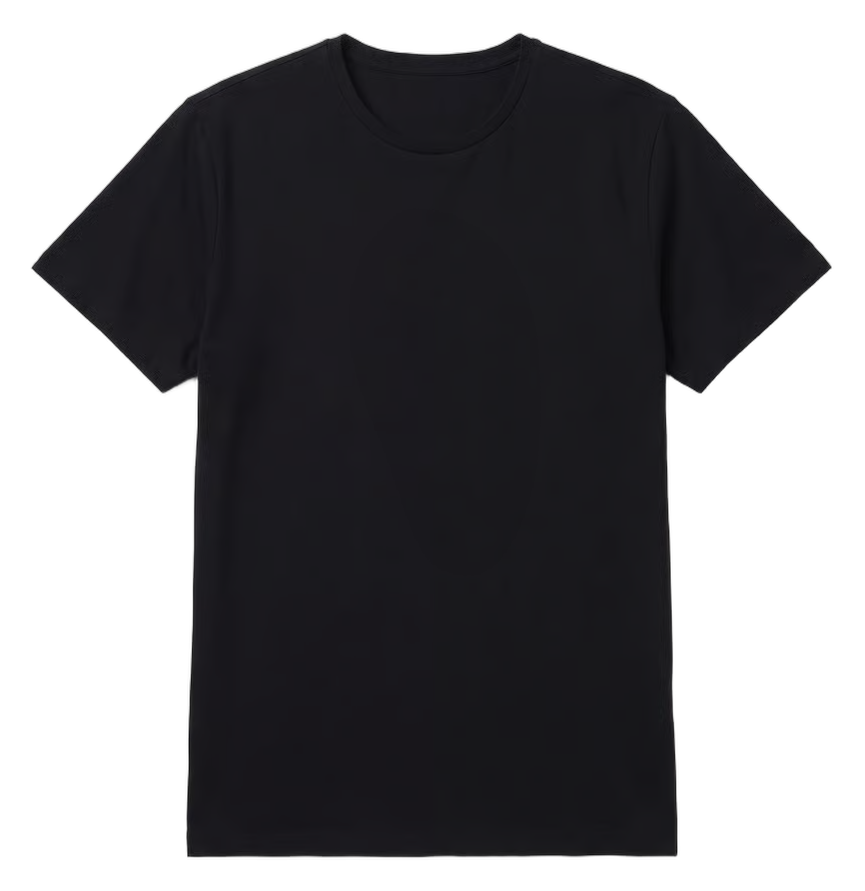
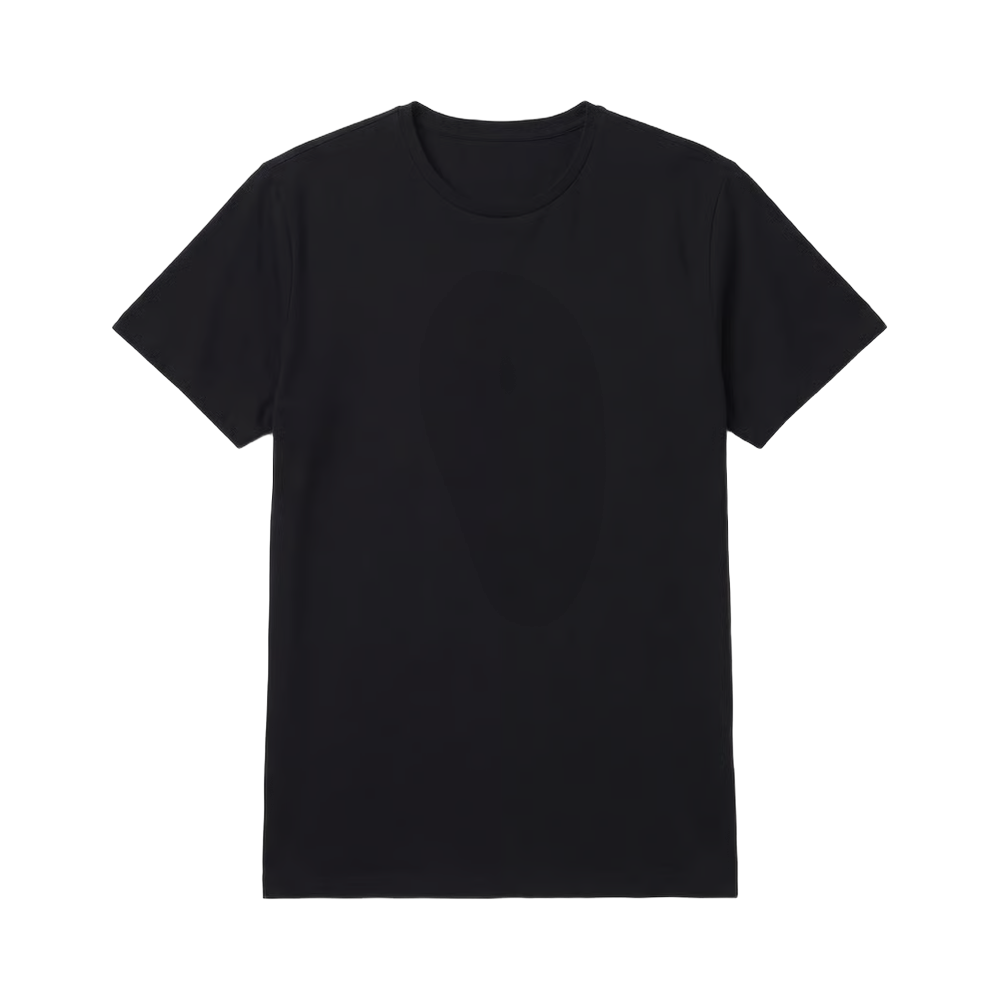
Redesign: cards padronizados, imagens quadradas, status e quantidade

Changed region(s): [[0.0312, 0.0303, 0.9676, 0.9697]]

diff --git a/style.css b/style.css
@@ -1,27 +1,36 @@
-:root{--bg:#1f2119;--bg2:#2a2c22;--card:#34362b;--txt:#ecebe3;--mute:#a3a391;--acc:#c9b77a;--r:18px}
+:root{--bg:#16170f;--bg2:#23251c;--card:#3a3c33;--marca:#8fa889;--txt:#ecebe3;--mute:#a3a391;--acc:#c9b77a;--r:18px}
 *{box-sizing:border-box;margin:0;padding:0}
 body{background:var(--bg);color:var(--txt);font-family:-apple-system,"Segoe UI",Roboto,Helvetica,Arial,sans-serif;min-height:100vh;padding-bottom:env(safe-area-inset-bottom)}
-.topo{position:sticky;top:0;z-index:5;background:rgba(31,33,25,.94);backdrop-filter:blur(10px);padding:18px 16px 0}
+.topo{position:sticky;top:0;z-index:5;background:rgba(22,23,15,.94);backdrop-filter:blur(10px);padding:18px 16px 0}
 h1{font-family:Georgia,serif;font-weight:400;font-size:1.5rem;letter-spacing:.3px}
 h1 span{color:var(--acc);font-style:italic}
 .abas{display:flex;gap:24px;margin-top:12px;border-bottom:1px solid #3b3d31}
 .aba{background:none;border:0;color:var(--mute);font-size:1rem;padding:10px 0;border-bottom:2px solid transparent;cursor:pointer}
 .aba.ativa{color:var(--txt);border-color:var(--acc)}
-main{max-width:900px;margin:0 auto;padding:14px}
+main{max-width:1000px;margin:0 auto;padding:14px}
 .chips{display:flex;gap:8px;overflow-x:auto;padding-bottom:8px;scrollbar-width:none}
 .chips::-webkit-scrollbar{display:none}
 .chip{flex:none;background:var(--bg2);color:var(--txt);border:1px solid #3e4034;border-radius:999px;padding:7px 14px;font-size:.85rem;cursor:pointer;display:flex;align-items:center;gap:6px}
 .chip.ativo{background:var(--acc);color:#1f2119;border-color:var(--acc)}
 .bolinha{width:12px;height:12px;border-radius:50%;border:1px solid #fff4}
 .contagem{color:var(--mute);font-size:.85rem;margin:4px 2px 12px}
-.grade{display:grid;grid-template-columns:repeat(3,1fr);gap:10px}
-@media(max-width:340px){.grade{grid-template-columns:repeat(2,1fr)}}
-@media(min-width:700px){.grade{grid-template-columns:repeat(4,1fr);gap:14px}}
-.card{background:var(--card);border-radius:var(--r);overflow:hidden;cursor:pointer;border:0;color:inherit;text-align:left;transition:transform .15s}
-.card:active{transform:scale(.97)}
-.card .foto{aspect-ratio:1;display:flex;align-items:center;justify-content:center;padding:10px;background:radial-gradient(circle at 50% 40%,#45473a,#34362b)}
-.card img{max-width:100%;max-height:100%;object-fit:contain;filter:drop-shadow(0 6px 8px #0006)}
-.card .nome{font-size:.75rem;padding:6px 10px 10px;white-space:nowrap;overflow:hidden;text-overflow:ellipsis;color:var(--mute)}
+.grade{display:grid;grid-template-columns:repeat(2,1fr);gap:22px 14px}
+@media(min-width:700px){.grade{grid-template-columns:repeat(4,1fr);gap:30px 22px}}
+.card{display:block;align-self:start;background:none;border:0;color:inherit;text-align:left;cursor:pointer;font:inherit;min-width:0}
+.card:active .foto{transform:scale(.97)}
+.card .foto{position:relative;aspect-ratio:1;background:var(--card);border-radius:22px;padding:11%;display:flex;align-items:center;justify-content:center;transition:transform .15s}
+.card img{width:100%;height:100%;object-fit:contain;filter:drop-shadow(0 6px 10px #0005)}
+.selo{position:absolute;font-size:.68rem;font-weight:600;padding:4px 9px;border-radius:999px;background:#1c1d16e6;color:#ecebe3}
+.selo-status{top:10px;left:10px}
+.selo-status.claro{background:#d4e8b0;color:#2a3418}
+.selo-qtd{bottom:10px;right:10px}
+.info{padding:12px 2px 0}
+.marca{font-size:.66rem;letter-spacing:.16em;text-transform:uppercase;color:var(--marca);margin-bottom:5px}
+.card .nome{font-weight:700;color:#fff;font-size:.98rem;margin-bottom:7px;line-height:1.25}
+.linha{display:flex;align-items:center;gap:6px;font-size:.8rem;color:#c8c8ba;margin-bottom:5px}
+.linha .bolinha{width:10px;height:10px;flex:none;border:1px solid #fff6}
+.sep{color:var(--mute);margin:0 2px}
+.tecido{font-size:.74rem;color:var(--mute);line-height:1.35}
 .vazio{text-align:center;padding:60px 24px;color:var(--mute);line-height:1.5}
 .vazio .icone{font-size:3rem;margin-bottom:12px}
 .vazio strong{display:block;color:var(--txt);font-size:1.05rem;margin-bottom:6px}

diff --git a/app.js b/app.js
@@ -22,7 +22,14 @@ function armario(){
   $('#contagem').textContent = `${n} ${n===1?'peça':'peças'}`;
   if(!estado.pecas.length){ $('#grade').innerHTML = vazio('🧥','Seu armário ainda está vazio.','Mande a foto da sua primeira peça pro Estilo.'); $('#grade').style.display='block'; return; }
   $('#grade').style.display='';
-  $('#grade').innerHTML = n ? lista.map(p => `<button class="card" data-id="${esc(p.id)}"><div class="foto"><img src="${esc(p.foto)}" alt="${esc(p.nome)}" loading="lazy"></div><div class="nome">${esc(p.nome)}</div></button>`).join('')
+  $('#grade').innerHTML = n ? lista.map(p => {
+    const st = p.status ? `<span class="selo selo-status ${/guarda/i.test(p.status)?'claro':''}">${esc(p.status)}</span>` : '';
+    const qt = p.quantidade ? `<span class="selo selo-qtd">${esc(p.quantidade)}</span>` : '';
+    const linha = [p.cor ? `<span class="bolinha" style="background:${esc(p.cor_hex||'#888')}"></span>${esc(p.cor)}` : '', esc(p.tamanho)].filter(Boolean).join('<span class="sep">·</span>');
+    return `<button class="card" data-id="${esc(p.id)}"><div class="foto">${st}<img src="${esc(p.foto)}" alt="${esc(p.nome)}" loading="lazy">${qt}</div>
+      <div class="info">${p.marca?`<div class="marca">${esc(p.marca)}</div>`:''}<div class="nome">${esc(p.nome)}</div>
+      ${linha?`<div class="linha">${linha}</div>`:''}${p.tecido?`<div class="tecido">${esc(p.tecido)}</div>`:''}</div></button>`;
+  }).join('')
     : `<div style="grid-column:1/-1">${vazio('🔍','Nada por aqui.','Nenhuma peça com esses filtros.')}</div>`;
 }
 
@@ -36,7 +43,7 @@ function looks(){
   }).join('');
 }
 
-const ROTULOS = [['categoria','Categoria'],['cor','Cor'],['marca','Marca'],['tamanho','Tamanho'],['tecido','Tecido'],['data_compra','Data da compra'],['link','Link'],['observacoes','Observações']];
+const ROTULOS = [['categoria','Categoria'],['cor','Cor'],['marca','Marca'],['status','Status'],['quantidade','Quantidade'],['tamanho','Tamanho'],['tecido','Tecido'],['data_compra','Data da compra'],['link','Link'],['observacoes','Observações']];
 function abrir(id){
   const p = estado.pecas.find(x => x.id===id); if(!p) return;
   const fmt = (k,v) => k==='link' ? `<a href="${esc(v)}" target="_blank" rel="noopener">Ver produto</a>`

diff --git a/index.html b/index.html
@@ -3,7 +3,7 @@
 <head>
 <meta charset="utf-8">
 <meta name="viewport" content="width=device-width,initial-scale=1,viewport-fit=cover">
-<meta name="theme-color" content="#1f2119">
+<meta name="theme-color" content="#16170f">
 <title>Guarda-roupa do Fabricio</title>
 <link rel="stylesheet" href="style.css">
 </head>

diff --git a/tools/padronizar.py b/tools/padronizar.py
@@ -1,0 +1,28 @@
+#!/usr/bin/env python3
+"""Padroniza foto de peça: remove fundo (rembg), recorta e centraliza em PNG quadrado transparente.
+Uso: python3 tools/padronizar.py <entrada> <saida.png> [--tamanho 1000] [--ocupar 0.8] [--sem-rembg]"""
+import argparse, subprocess, tempfile, os
+from PIL import Image
+ap = argparse.ArgumentParser()
+ap.add_argument('entrada'); ap.add_argument('saida')
+ap.add_argument('--tamanho', type=int, default=1000)
+ap.add_argument('--ocupar', type=float, default=0.8)
+ap.add_argument('--sem-rembg', action='store_true', help='pular remoção de fundo (imagem já transparente)')
+a = ap.parse_args()
+src = a.entrada
+if not a.sem_rembg:
+    tmp = tempfile.NamedTemporaryFile(suffix='.png', delete=False).name
+    subprocess.run([os.path.expanduser('/home/box/bin/rembg'), 'i', src, tmp], check=True)
+    src = tmp
+im = Image.open(src).convert('RGBA')
+alpha = im.split()[3].point(lambda v: 255 if v > 20 else 0)
+bbox = alpha.getbbox()
+if not bbox: raise SystemExit('imagem vazia após remover fundo')
+im = im.crop(bbox)
+alvo = int(a.tamanho * a.ocupar)
+esc = alvo / max(im.size)
+im = im.resize((max(1, round(im.width*esc)), max(1, round(im.height*esc))), Image.LANCZOS)
+out = Image.new('RGBA', (a.tamanho, a.tamanho), (0,0,0,0))
+out.paste(im, ((a.tamanho-im.width)//2, (a.tamanho-im.height)//2), im)
+out.save(a.saida, optimize=True)
+print(f'{a.saida}: {a.tamanho}x{a.tamanho}, objeto {im.width}x{im.height}')
